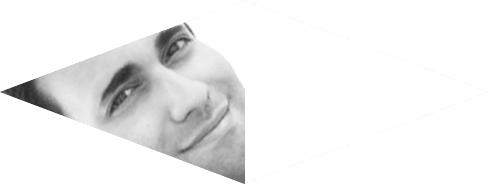
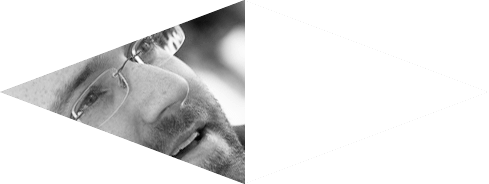
upadted speakers

Changed region(s): [[0.0, 0.0, 0.5215, 0.9511]]

diff --git a/page/2013/eu.html b/page/2013/eu.html
@@ -333,12 +333,12 @@
 				<div class="speakermain">
 					<span class="name" itemprop="name">Patrick</span><br><span class="name" itemprop="familyName">Lauke</span><br />
 					<span class="company" itemprop="worksFor" itemscope itemtype="http://schema.org/Organization">
-						<span itemprop="name">Opera</span></span>
+						<span itemprop="name"></span></span>
 				</div>
 				
 				<div class="biowrapper" >
 					<div class="bio rightside" >
-						<h3>jQuery on TV</h3>
+						<h3>Web on TV</h3>
 						<div class="left" itemprop="description"> 
 							<p>
 								In this talk, we'll take a look at the unique challenges that developer's face when creating webapps and content for so-called "Smart TVs". What role does jQuery have, if any, in relation to cross-TV/platform/device development?
@@ -351,13 +351,13 @@
 						</div>
 						<div class="right" itemprop="jobTitle" >
 							<p class="job" >
-								Opera
+								
 							</p>
 							<p class="job" itemprop="jobTitle" >
 								JavaScript Author
 							</p>
 							<p class="sidedescription">
-								Patrick Lauke works as Web Evangelist in the Developer Relations team at Opera Software ASA. Patrick has been engaged in the discourse on standards and accessibility since early 2001 - regularly speaking at conferences and contributing to a variety of web development and accessibility related mailing lists and initiatives such as the Web Standards Project. Published works include a chapter in Web Accessibility: Web Standards and Regulatory Compliance, as well as various articles for .net magazine, where he sits on the advisory panel. 
+								Patrick Lauke is an open web standards evangelist who until recently worked in the Developer Relations team at Opera Software ASA. Patrick has been engaged in the discourse on standards and accessibility since early 2001 - regularly speaking at conferences and contributing to a variety of web development and accessibility related mailing lists and initiatives such as the Web Standards Project. Published works include a chapter in Web Accessibility: Web Standards and Regulatory Compliance, as well as various articles for .net magazine, where he sits on the advisory panel. 
 							</p>
 						</div>
 					</div>
@@ -367,14 +367,14 @@
 				<div class="background"></div>
 				
 				<div class="speakermain">
-					<span class="name" itemprop="name">Addy</span><br><span class="name" itemprop="familyName">Osmani</span><br />
+					<span class="name" itemprop="name">Mike</span><br><span class="name" itemprop="familyName">West</span><br />
 					<span class="company" itemprop="worksFor" itemscope itemtype="http://schema.org/Organization">
 						<span itemprop="name">Google</span></span>
 				</div>
 				
 				<div class="biowrapper" >
 					<div class="bio leftside" >
-						<h3></h3>
+						<h3>Mitigate Maliciousness: Securing the client side.</h3>
 						<div class="left" itemprop="jobTitle" >
 							<p class="job" >
 								Google
@@ -382,12 +382,12 @@
 							<p class="job" itemprop="jobTitle" >
 							</p>
 							<p class="sidedescription">
-								Addy is a Developer Programs Engineer at Google working on tools for improving how developers write web applications. He prolifically speaks and writes about JavaScript on a weekly basis, covering everything from building large-scale applications to using polyfills to bring the web’s latest hotness to older browsers. He has passion for helping move the web forward and is both member of the jQuery team and has contributed to open-source projects such as Modernizr and MoveTheWebForward.com. Addy is currently writing two books on JavaScript with O’Reilly Media.
+								Mike is a philosophy student, cleverly disguised as a developer advocate on Google's Chrome team in Munich, Germany. Since it was relatively clear early on that it would be slightly more than difficult to make a living sitting under a tree while reading Kant, he's focused his energies on the web, which happily has proven itself to be a wonderful decision. He's a committer to both Chromium and WebKit, and has even landed a single patch to Firefox.
 							</p>
 						</div>
 						<div class="right" itemprop="description"> 
 							<p>
-								Session content to be defined.
+								jQuery has made it possible for developers to move more and more complex application logic down from the server to the client. This is a huge opportunity for JavaScript developers, and at the same time presents a tempting target for folks with malicious intent. It's more critical than ever to ensure that we're doing the right things with regard to security, and happily, modern browsers are here to help. Here, we'll talk about some of the new ways in which you can mitigate the effects of cross-site scripting and other attacks.
 							</p>
 							<p>
 								<a href="#" class="close">
@@ -577,17 +577,17 @@
 				<div class="background"></div>
 				
 				<div class="speakermain">
-					<span class="name">reserved</span><br><span class="name">speaker</span><br />
-					<span class="company"></span><br /><span class="company"></span>
+					<span class="name">Dio</span><br><span class="name">Synodions</span><br />
+					<span class="company">C4Media</span><br /><span class="company"></span>
 				</div>
 				
 				<div class="biowrapper" >
 					<div class="bio rightside" >
 						<h3></h3>
 					<div class="left" itemprop="description"> 
-						<p>
-							To be defined
-						</p>
+								<p>The more information-rich our societies become, the more demand there is for representing information visually, and the HTML5 platform is one of the best ways to create visualizations and communicate a message. Either for making sense of quantitative data, displaying qualitative information or simply creating the next Mona Lisa, technologies like CSS3, SVG, Canvas, WebGL, etc, provide a very powerful toolbox for developers, designers and artists.</p>
+
+								<p>In this presentation we’re going to start of by examining all the enabling HTML5 technologies that were mentioned, their features and how they are used in practice to deliver captivating user experiences. Then we’re going to move one level up and talk about the frameworks that make these powerful but sometimes overly complex technologies, more accessible to programmers. We’re going to see frameworks like Raphaël, Processing.js, D3.js, Fabric.js, etc, their features and their applicability. Finally, time permitting, we’re going to go over online examples that best demonstrate the power of the web platform for visualizations and analyze how they were created.</p>
 						<p>
 							<a href="#" class="close">
 								close
@@ -596,11 +596,12 @@
 					</div>
 					<div class="right" itemprop="jobTitle" >
 						<p class="job" >
+							C4Media
 						</p>
 						<p class="job" itemprop="jobTitle" >
 						</p>
 						<p class="sidedescription">
-							Reserved for an already proposed session. Session proposals are closed.
+							Dio Synodinos is the research platform team lead at C4Media and a freelance consultant, focusing on rich Internet applications, web application security, mobile web, and web services. He’s also the lead editor for HTML5 and JavaScript at InfoQ where he also regularly writes about the JVM platform. He is the coauthor of "Pro HTML5 and CSS3 Design Patterns" (published by Apress) and "The Essential Guide to HTML5 and CSS3 Web Design" (published by friendsofED). Going back and forth between server-side programming and UI design for more than a decade, he has been involved in diverse software projects and has contributed to different technical publications.
 						</p>
 					</div>
 					</div>
@@ -652,7 +653,7 @@
 							<p class="job" itemprop="jobTitle" >Course Leader Mobile and Web Computing
 							</p>
 							<p class="sidedescription">
-								Anne-Gaelle Colom is a Senior Lecturer at the University of Westminster in London, UK and the Course Leader for Mobile and Web Computing. She is passionate about the use of technology in Higher Education as well as the Web and Mobile world. Anne-Gaelle joined the jQuery Mobile team in October 2011 to become the documentation lead a few months later.
+								Anne-Gaelle Colom is a Senior Lecturer at the University of Westminster in London, UK and the Course Leader for BEng Mobile and Web Computing. She is passionate about the use of technology in Higher Education as well as the Web and Mobile world. Anne-Gaelle joined the jQuery Mobile team in October 2011 to become the documentation lead a few months later.
 							</p>
 						</div>
 						<div class="right" itemprop="description"> 
@@ -671,15 +672,15 @@
 			<li id="speaker16" class="speaker">
 				<div class="background"></div>
 				<div class="speakermain">
-					<span class="name">reserved</span><br><span class="name">speaker</span><br />
-					<span class="company"></span><br /><span class="company"></span>
+					<span class="name">Maximilian</span><br><span class="name">Knor</span><br />
+					<span class="company">Microsoft</span><br /><span class="company"></span>
 				</div>
 				<div class="biowrapper" >
 					<div class="bio rightside" >
-						<h3></h3>
+						<h3>Microsoft ASP.NET &lt;3 jQuery</h3>
 						<div class="left" itemprop="description"> 
 							<p>
-								To be defined
+								How ASP.NET MVC and ASP.NET SignalR builds on top of jQuery & jQuery Mobile for client-side features & Single Page Applications.
 							</p>
 							<p>
 								<a href="#" class="close">
@@ -693,7 +694,7 @@
 							<p class="job" itemprop="jobTitle" >
 							</p>
 							<p class="sidedescription">
-								Reserved for an already proposed session. Session proposals are closed.
+								Maximilian is developer evangelist at Microsoft and speaker at several conference.
 							</p>
 						</div>
 					</div>
@@ -722,18 +723,16 @@
 							<div class="right" itemprop="description"> 
 								<h3>Abstract</h3>
 								<h4>Advanced jQuery</h4>
-								<p>We take developers from the basics to creating rich applications utilizing more advanced features that jQuery has to offer. With a greater understanding of Ajax, Events, and performance coupled with a deeper knowledge of the JavaScript language, you will be able to create richer applications while ensuring performance and simpler APIs.</p>
-								<h3>Topics Covered</h3>
+								<p>It is time to realize the full potential of jQuery in the realm of professional web development and delve into advanced topics surrounding the front-end. Utilize the jQuery library in the context of large-scale applications by learning how to dramatically improve performance, increase maintainability and reusability, and write cleaner and more concise code. Our goal is to give you the understanding of how to adopt an application architecture that is maintainable and scalable while keeping simplicity as a core tenant to successful web development. Once completed you should feel confident creating and maintaining advanced front-end-focused web applications.</p>
+								<h3>Topics Schedule</h3>
 								<ul>
-									<li>Cleaner Ajax</li>
-									<li>Advanced Event Handling</li>
-									<li>The Plugin Pattern &amp; Plugin Development</li>
-								</ul>
-								<h3>JavaScript Topics Covered</h3>
-								<ul>
-									<li>Immediately Invoked Function Expressions</li>
-									<li>Functional Patterns</li>
-									<li>Modularization</li>
+									<li>Event Delegation</li>
+									<li>Traversal, Filters, and Advanced Selectors</li>
+									<li>Simplifying Code with Conventions</li>
+									<li>Just-in-time Initialization Patterns</li>
+									<li>Modules and Code Reuse</li>
+									<li>jQuery Plugins</li>
+									<li>jQuery UI Widget Factory</li>
 								</ul>
 							</div>
 						</div>
@@ -750,22 +749,24 @@
 							<div class="left" itemprop="description"> 
 								<h3>Abstract</h3>
 								<h4>jQuery mobile</h4>
-								<p>jQuery Mobile has gained an aggressive market share and is poised as a great solution to mobile web development. With a progressive enhancement approach, jQuery Mobile aims to allow a mobile web experience for all, while rewarding those phones capable of a rich experience. It is an adaptive solution for a wide audience built by a solid team with a proven track record of delivering. Even in the early alpha stage of release, this project obtained a solid community and industry following ensuring its longevity.</p>
-								<h3>Topics Covered</h3>
+								<p> jQuery Mobile has gained aggressive market share and is a great solution to mobile web development. With a progressive enhancement approach, jQuery Mobile aims to allow a mobile web experience for all, while rewarding those phones capable of a rich experience.  Learn to get the most of the jQuery Mobile library by engineering single-page approaches with advanced Ajax functionality. Create rich and interactive mobile user experiences with wide device support and even utilize advanced functionality to completely customize a mobile site into a mobile application. Our goal is to give you the most comprehensive jQuery Mobile knowledge one can gain in a single day of training.</p>
+								<h3>Topics Schedule</h3>
 								<ul>
-									<li>The state of the mobile web</li>
-									<li>jQuery Mobile - not just a library</li>
-									<li>jQuery Mobile's progressive enhancement approach</li>
-									<li>Theming and customization</li>
-									<li>Other complimentary libraries</li>
+									<li>Getting Started with jQuery Mobile</li>
+									<li>Pages and Navigation</li>
+									<li>The User Interface: Lists, Forms, and Themes</li>
+									<li>jQuery and jQuery Mobile: Events and Ajax</li>
+									<li>Advanced Usage and Mobile Applications</li>
 								</ul>
 							</div>
 							<div class="right" itemprop="description">
 								<h3>Trainer</h3>
 								<h4>Mike Hostetler</h4>
-								<p>
-									Mike Hostetler is an inventor, entrepreneur, programmer and proud father. Having worked with web technologies since the mid 1990′s, Mike has had extensive experience developing web applications with PHP and JavaScript. Currently, Mike works as the Founder and CEO of appendTo, LLC, the company dedicated to jQuery, based in Denver, Colorado. Heavily involved in Open Source, Mike is an alumni of the jQuery Core team, participates in the QCubed PHP5 Framework project, and participates in the Drupal project.
-								</p>
+								<p>Entrepreneur and Ethical Hacker, Mike Hostetler is passionate about Open Source, Working Virtually, Entrepreneurship, HTML5 and JavaScript. Mike currently works as the CEO of appendTo.</p>
+
+								<p>Mike is a published co-author of the jQuery Cookbook (O'Reilly, 2009) and speaks widely on technical and business topics. Mike has spoken at OSCON, jQuery Conferences, BlackBerry DevCon and StarTechConf in Santiago, Chile.</p>
+
+								<p>You can follow Mike on Twitter (@mikehostetler) or via his blog at <a href="http://mike-hostetler.com">http://mike-hostetler.com</a></p>
 							</div>
 						</div>
 					</div>
@@ -1130,10 +1131,29 @@
 				<li id="subevent2" class="subevent" itemscope itemprop="subevent">
 					<div class="sessionmain">
 						<span class="time">10:00</span>
-						<span class="speaker">reserved</span>
-						<span class="topic">To be defined</span>
+						<span class="speaker">Maximilian Knor</span>
+						<span class="topic">Microsoft ASP.NET &lt;3 jQuery</span>
 					</div>
 					<div class="sessiondescription">
+						<div class="bio rightside">
+							<div class="left" itemprop="jobTitle" >
+								<p class="job" >
+									Microsoft
+								</p>
+								<p class="job" itemprop="jobTitle" >
+								</p>
+								<p class="sidedescription">
+									Maximilian is developer evangelist at Microsoft and speaker at several conference.
+								</p>
+							</div>
+							<div class="right" itemprop="description"> 
+								<p>How ASP.NET MVC and ASP.NET SignalR builds on top of jQuery & jQuery Mobile for client-side features & Single Page Applications.</p>
+								<p>
+									<a href="#" class="close">
+										close
+									</a>
+								</p>
+							</div>
 
 					</div>
 				</li>
@@ -1146,8 +1166,8 @@
 				<li id="subevent3" class="subevent" itemscope itemprop="subevent">
 					<div class="sessionmain">
 						<span class="time">11:15</span>
-						<span class="speaker">Addy Osmani</span>
-						<span class="topic">To be defined</span>
+						<span class="speaker">Mike West</span>
+						<span class="topic">Mitigate Maliciousness: Securing the client side</span>
 					</div>
 					<div class="sessiondescription">
 						<div class="bio rightside" >
@@ -1158,12 +1178,12 @@
 								<p class="job" itemprop="jobTitle" >
 								</p>
 								<p class="sidedescription">
-									Addy is a Developer Programs Engineer at Google working on tools for improving how developers write web applications. He prolifically speaks and writes about JavaScript on a weekly basis, covering everything from building large-scale applications to using polyfills to bring the web’s latest hotness to older browsers. He has passion for helping move the web forward and is both member of the jQuery team and has contributed to open-source projects such as Modernizr and MoveTheWebForward.com. Addy is currently writing two books on JavaScript with O’Reilly Media.
+									Mike is a philosophy student, cleverly disguised as a developer advocate on Google's Chrome team in Munich, Germany. Since it was relatively clear early on that it would be slightly more than difficult to make a living sitting under a tree while reading Kant, he's focused his energies on the web, which happily has proven itself to be a wonderful decision. He's a committer to both Chromium and WebKit, and has even landed a single patch to Firefox.
 								</p>
 							</div>
 							<div class="right" itemprop="description"> 
 								<p>
-									Session content to be defined.
+									jQuery has made it possible for developers to move more and more complex application logic down from the server to the client. This is a huge opportunity for JavaScript developers, and at the same time presents a tempting target for folks with malicious intent. It's more critical than ever to ensure that we're doing the right things with regard to security, and happily, modern browsers are here to help. Here, we'll talk about some of the new ways in which you can mitigate the effects of cross-site scripting and other attacks.
 								</p>
 								<p>
 									<a href="#" class="close">
@@ -1216,7 +1236,7 @@
 					<div class="sessionmain">
 						<span class="time">13:30</span>
 						<span class="speaker">Patrick Lauke</span>
-						<span class="topic">jQuery on TV</span>
+						<span class="topic">Web on TV</span>
 					</div>
 					<div class="sessiondescription">
 						<div class="bio rightside" >
@@ -1232,13 +1252,13 @@
 							</div>
 							<div class="right" itemprop="jobTitle" >
 								<p class="job" >
-									Opera
+									
 								</p>
 								<p class="job" itemprop="jobTitle" >
 									JavaScript Author
 								</p>
 								<p class="sidedescription">
-									Patrick Lauke works as Web Evangelist in the Developer Relations team at Opera Software ASA. Patrick has been engaged in the discourse on standards and accessibility since early 2001 - regularly speaking at conferences and contributing to a variety of web development and accessibility related mailing lists and initiatives such as the Web Standards Project. Published works include a chapter in Web Accessibility: Web Standards and Regulatory Compliance, as well as various articles for .net magazine, where he sits on the advisory panel. 
+									Patrick Lauke is an open web standards evangelist who until recently worked in the Developer Relations team at Opera Software ASA.. Patrick has been engaged in the discourse on standards and accessibility since early 2001 - regularly speaking at conferences and contributing to a variety of web development and accessibility related mailing lists and initiatives such as the Web Standards Project. Published works include a chapter in Web Accessibility: Web Standards and Regulatory Compliance, as well as various articles for .net magazine, where he sits on the advisory panel. 
 								</p>
 							</div>
 						</div>
@@ -1247,32 +1267,15 @@
 				<li id="subevent6" class="subevent" itemscope itemprop="subevent">
 					<div class="sessionmain">
 						<span class="time">14:15</span>
-						<span class="speaker">reserved</span>
-						<span class="topic">To be defined</span>
-					</div>
-					<div class="sessiondescription">
-
-					</div>
-				</li>
-<!--				<li id="subevent6" class="subevent" itemscope itemprop="subevent">
-					<div class="sessionmain">
-						<span class="time">14:15</span>
 						<span class="speaker">Dio Synodinos</span>
-						<span class="topic">Web Components for the Next Generation of Web Apps</span>
+						<span class="topic">State of the Art in Web Visualisations</span>
 					</div>
 					<div class="sessiondescription">
 						<div class="bio rightside" >
 							<div class="left" itemprop="description"> 
-								<p>
-									The component model for the Web (also known as Web Components) consists of four pieces designed to be used together to let web application authors define widgets with a level of visual richness not possible with CSS alone, and ease of composition and reuse not possible with script libraries today. These pieces are:
-									<ul>
-										<li>HTML Templates</li>
-										<li>Decorators</li>
-										<li>Custom Elements and</li>
-										<li>Shadow DOM</li>
-									</ul>
-									In this presentation we’re going to talk about the motivations behind these new emerging technologies, examine how they actually work, and see how you can leverage them today to build web applications based on  robust, reusable, and packageable components.
-								</p>
+								<p>The more information-rich our societies become, the more demand there is for representing information visually, and the HTML5 platform is one of the best ways to create visualizations and communicate a message. Either for making sense of quantitative data, displaying qualitative information or simply creating the next Mona Lisa, technologies like CSS3, SVG, Canvas, WebGL, etc, provide a very powerful toolbox for developers, designers and artists.</p>
+
+								<p>In this presentation we’re going to start of by examining all the enabling HTML5 technologies that were mentioned, their features and how they are used in practice to deliver captivating user experiences. Then we’re going to move one level up and talk about the frameworks that make these powerful but sometimes overly complex technologies, more accessible to programmers. We’re going to see frameworks like Raphaël, Processing.js, D3.js, Fabric.js, etc, their features and their applicability. Finally, time permitting, we’re going to go over online examples that best demonstrate the power of the web platform for visualizations and analyze how they were created.</p>
 								<p>
 									<a href="#" class="close">
 										close
@@ -1292,7 +1295,7 @@
 						</div>
 					</div>
 				</li>
--->				<li id="break5" class="break">
+				<li id="break5" class="break">
 					<div class="sessionmain">
 						<span class="time">15:00</span>
 						<span class="topic">coffee</span>
@@ -1310,7 +1313,7 @@
 								<p class="job" itemprop="jobTitle" >Course Leader Mobile and Web Computing
 								</p>
 								<p class="sidedescription">
-									Anne-Gaelle Colom is a Senior Lecturer at the University of Westminster in London, UK and the Course Leader for Mobile and Web Computing. She is passionate about the use of technology in Higher Education as well as the Web and Mobile world. Anne-Gaelle joined the jQuery Mobile team in October 2011 to become the documentation lead a few months later.
+									Anne-Gaelle Colom is a Senior Lecturer at the University of Westminster in London, UK and the Course Leader for BEng Mobile and Web Computing. She is passionate about the use of technology in Higher Education as well as the Web and Mobile world. Anne-Gaelle joined the jQuery Mobile team in October 2011 to become the documentation lead a few months later.
 								</p>
 							</div>
 							<div class="right" itemprop="description"> 

diff --git a/resources/2013/eu/css/style.css b/resources/2013/eu/css/style.css
@@ -563,6 +563,7 @@ p {
   width: 2441px;
   height: 918px;
   position: absolute;
+  font-size: 90%;
   margin-left: -851px;
   margin-top: -178px;
   z-index: -1;
@@ -806,7 +807,7 @@ p {
   z-index: 87;
 }
 #speaker13 .background {
-  background: url('../img/speaker00.png') 50% 0 no-repeat;
+  background: url('../img/speaker13.png') 50% 0 no-repeat;
 }
 #speaker14 {
   top: -1101px;

diff --git a/resources/2013/eu/css/style.less b/resources/2013/eu/css/style.less
@@ -566,6 +566,7 @@ p {
 	width:2441px;
 	height:918px;
 	position: absolute;
+	font-size:90%;
 	margin-left: -851px;
 	margin-top: -178px;
 	z-index: -1;
@@ -840,7 +841,7 @@ p {
 	z-index: 87;
 	
 	.background {
-		background: url('../img/speaker00.png') 50% 0 no-repeat;
+		background: url('../img/speaker13.png') 50% 0 no-repeat;
 	}
 }
 #speaker14 {
